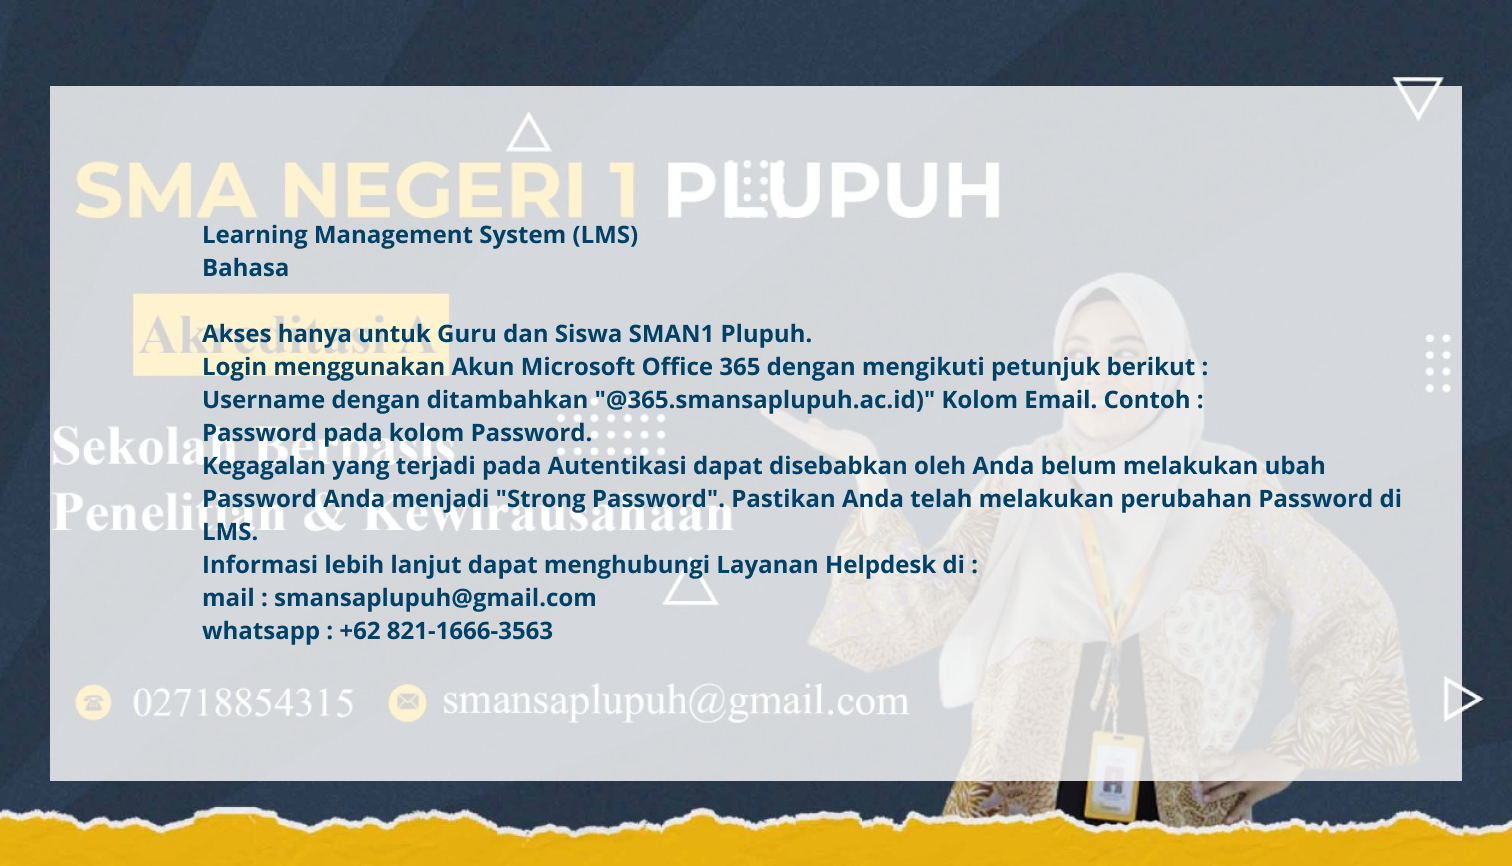
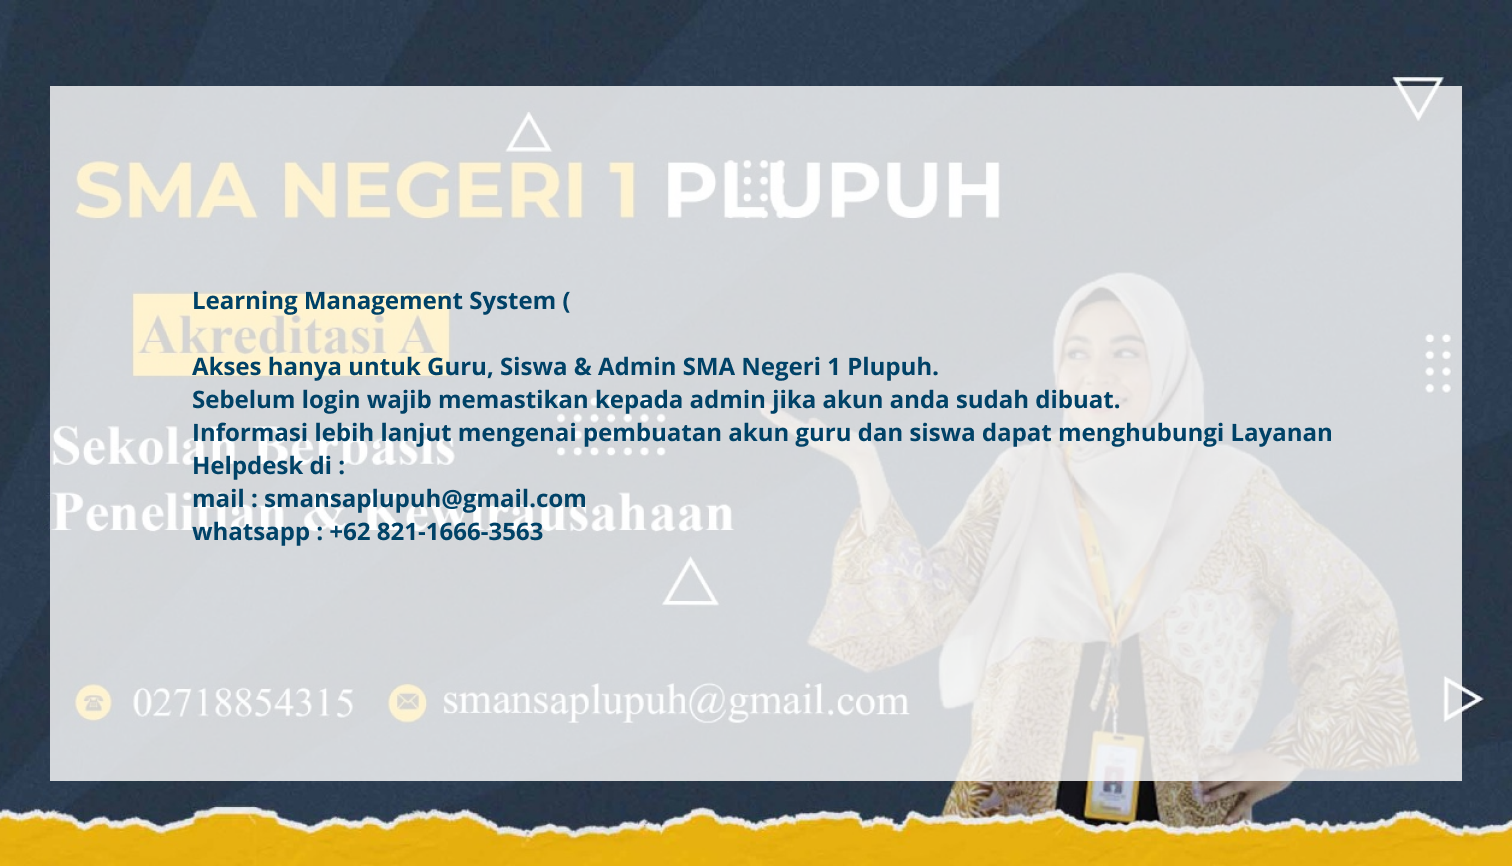
renewed login system

Changed region(s): [[0.1243, 0.2494, 0.9325, 0.7483]]

diff --git a/app/Http/Controllers/penggunaController.php b/app/Http/Controllers/penggunaController.php
@@ -24,16 +24,18 @@ class penggunaController extends Controller
     {
         $email = $request->email;
         $password = $request->password;
-        $boolEmail = pengguna::where('email', $email)->exists();
-        $boolPassword = pengguna::where('password', $password)->exists();
-        $status = $boolEmail && $boolPassword;
+        $status = pengguna::where('email', $email)->exists();
         if ($status) {
             $pengguna = pengguna::where('email', $email)->get();
-            session(['id' => $pengguna[0]->id]);
-            session(['nama' => $pengguna[0]->Nama]);
-            session(['email' => $email]);
-            session(['is_login' => "True"]);
-            return redirect('/home');
+            if ($pengguna[0]->password == $password) {
+                session(['id' => $pengguna[0]->id]);
+                session(['nama' => $pengguna[0]->Nama]);
+                session(['email' => $email]);
+                session(['is_login' => "True"]);
+                return redirect('/home');
+            } else {
+                return redirect('/login');
+            }
         } else {
             return redirect('/login');
         }
